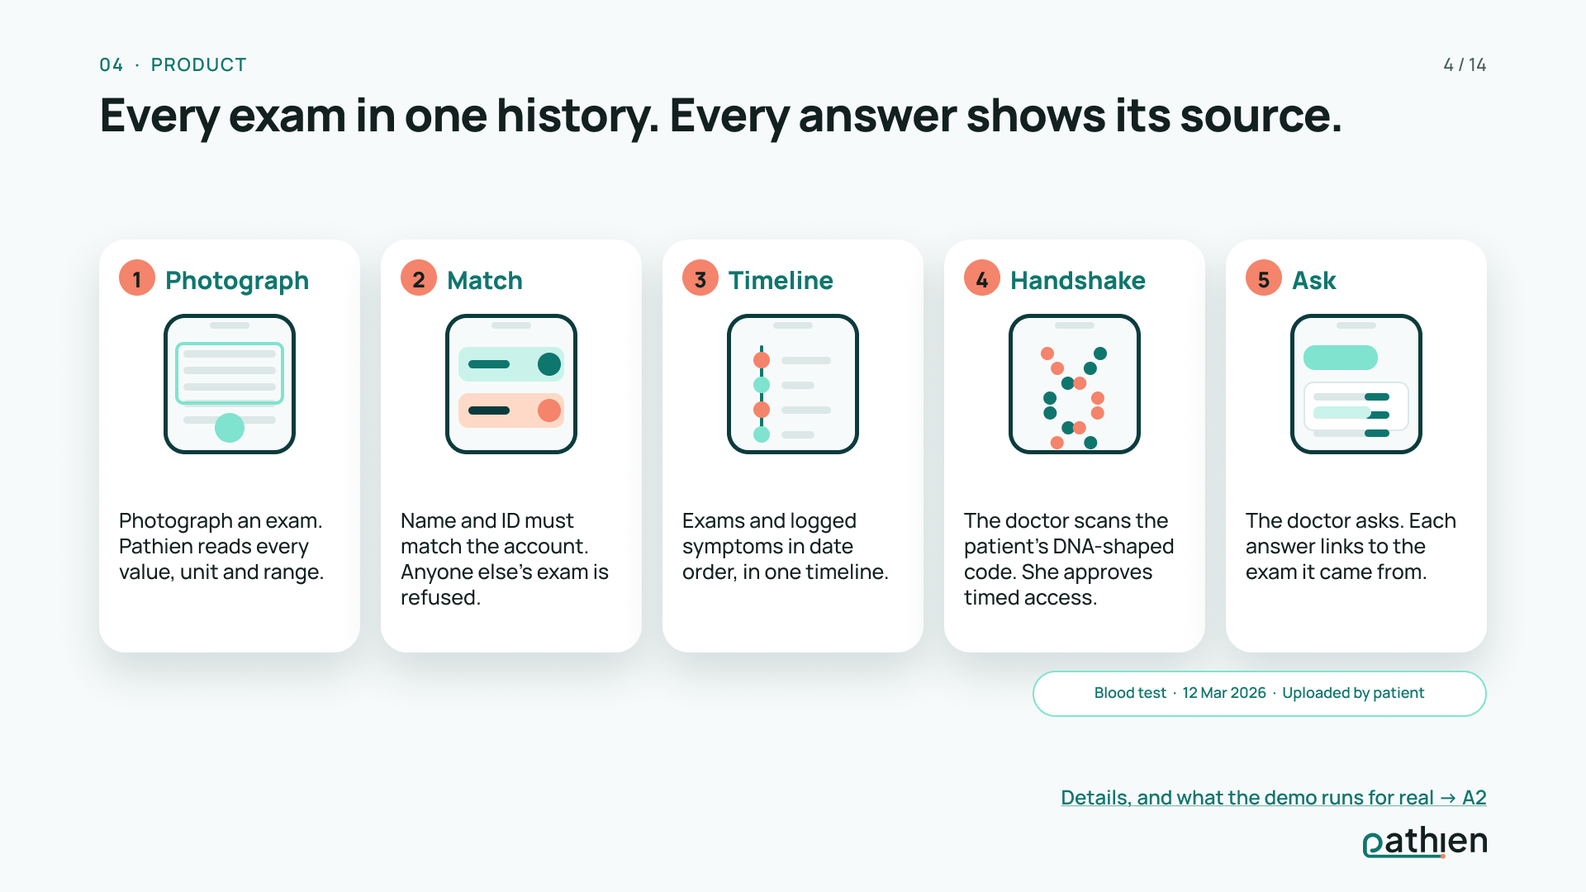
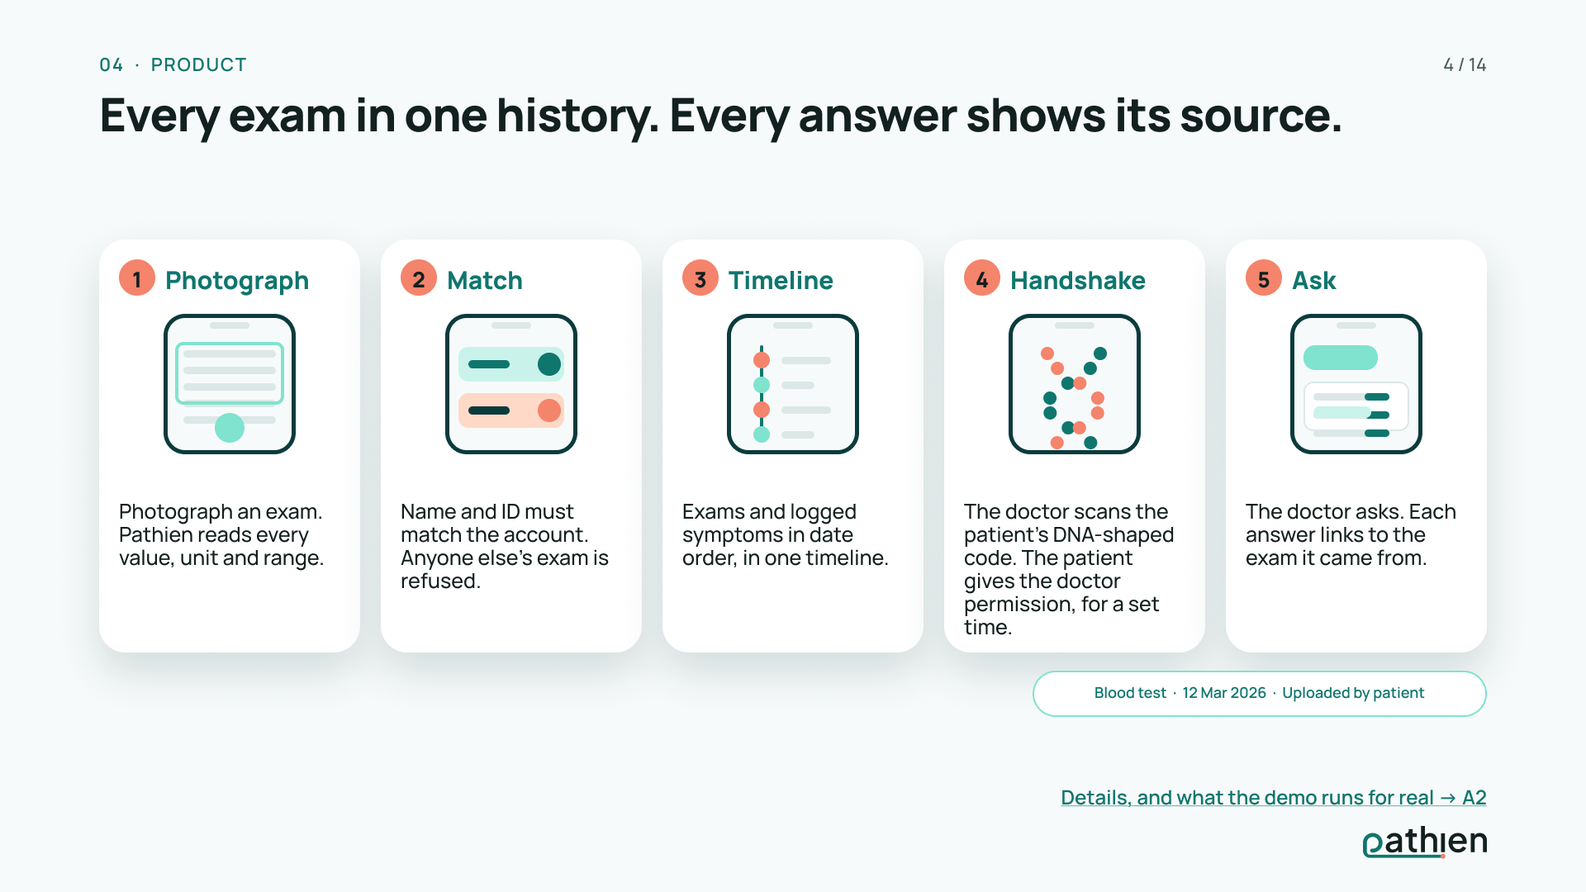
fix(deck): slide 4 handshake says the patient gives the doctor permission (MIN-4503) [Lane A] (#163)
* fix(deck): slide 4 handshake says the patient gives the doctor permission (v4.10)

Founder, 15 Nov 2026: "just add that patient give permission to doctor".
Step 4 was "She approves timed access.", readable as the doctor approving.

MIN-4503

* docs(deck): re-export slide 4 with the patient permission line (MIN-4503)

Refs MIN-4503

---------

diff --git a/landing/src/deck/slides.ts b/landing/src/deck/slides.ts
@@ -68,7 +68,7 @@ const mainSlides: Slide[] = [
       { n: 1, title: 'Photograph', icon: 'photo', text: 'Photograph an exam. Pathien reads every value, unit and range.' },
       { n: 2, title: 'Match', icon: 'match', text: "Name and ID must match the account. Anyone else's exam is refused." },
       { n: 3, title: 'Timeline', icon: 'timeline', text: 'Exams and logged symptoms in date order, in one timeline.' },
-      { n: 4, title: 'Handshake', icon: 'helix', text: "The doctor scans the patient's DNA-shaped code. She approves timed access." },
+      { n: 4, title: 'Handshake', icon: 'helix', text: "The doctor scans the patient's DNA-shaped code. The patient gives the doctor permission, for a set time." },
       { n: 5, title: 'Ask', icon: 'ask', text: 'The doctor asks. Each answer links to the exam it came from.' },
     ],
     links: [{ to: 'A2', label: 'Details, and what the demo runs for real → A2' }],

diff --git a/docs/deck/deck-content.md b/docs/deck/deck-content.md
@@ -11,7 +11,7 @@ Version entries before v4.2 use the old numbers.
 | | |
 |---|---|
 | **Owner** | Anna Lytica (Marketing), MIN-4429. Deck story: CEO (MIN-4425). Design: Pix (MIN-4428), next. |
-| **Version** | **v4.9, 15 Nov 2026** (MIN-4503: Q37 decided. Founder, 15 Nov 2026, verbatim, asked whether the clinical-trials slides stay in the main deck: *"Keep it"*. Slides 6b and 6c stay in the main deck. No slide text changes.) v4.8, 15 Nov 2026 (MIN-4503: the CFO's decisions on the founder's delegation, applied word for word from `docs/business/cfo-fixes-v4.8.md`. Founder, 15 Nov 2026, verbatim: *"CFO you make the call"*. Slide 6c headline: the sponsor pays per trial and per randomised patient (the old headline named only a per-patient fee; there is also a €5,000 set-up fee); A3: €1,000 a randomised patient decided, billed to the sponsor or CRO only; A9: no founder salary from this round, government revenue counted only once a contract is signed; Q38 and Q39 answered. No number on a main slide changes.) v4.7, 15 Nov 2026 (MIN-4503: CFO fixes, applied word for word from `docs/business/cfo-fixes-v4.7.md`. Founder, 15 Nov 2026, verbatim, asking for the check: *"lets go a step back / I want the /c-level-skills:cfo-advisor to check the whole presentation and check the financial numbers is there are ok"*; and on the tranche choice: *"CFO will answer"*. Tranches €400k then €600k, both committed at signing, the second released when a hospital commits in writing to 1,000+ paid cases a year at €40+; break-even at month 31, when gross profit covers running costs (was "month 29", revenue alone); one cost method for every hire (spend bar €297k / €361k / €245k / €97k); slide 10's "6 to 14%" replaced by "about 12 hospitals cover our running costs"; slide 7 headline "Diagnostic error costs 17.5%", upside €75M → €30M; A7 in euros; trials five a year; slide 3 says "Greek press reports"; A9 tables from plan v4.) v4.6, 15 Nov 2026 (MIN-4503: slide 1 cover headline replaced. Founder, 15 Nov 2026, verbatim, after none of the five proposed cover headlines was picked: *"just write Your medical history, in one place."* The headline is now "Your medical history, / in one place.", broken after the comma, the same words as the landing page hero; the one-liner and the speaker notes are unchanged; web deck `slides.ts` matches. Was "Maria asks Google what her pain means. Her doctors each see one page of her history.") v4.5, 15 Nov 2026 (MIN-4503: slide 6c rebuilt so the three cards compare the same thing. Founder, 15 Nov 2026, verbatim, asked of the v4.4 cards "$360M\*" and "$200,000\*": *"does 360m is the whole and the 200000 is per trial?"*, then: *"You need to be clear with the numbers and compare the same thing"*. The v4.4 cards mixed a market total over the life of 1,497 trials (recruitment budget, dollars), a per-trial running-cost saving (dollars) and our per-trial fee (euros). All three cards are now the cost of recruitment time, for one trial in one country, in euros at $1.10 to €1: card 1 **€36,000\*** a day of delay ($40,000, S23, rounded down); card 2 **€180,000\*** saved, 5 × €36,000; card 3 **€24,000\*** our fee, the sponsor keeps €156,000. The market totals ($357M ≈ €325M recruitment budget, 1,497 trials, 776,650 participants, ≈ €270M of running cost if each saved 5 days) moved to A3 as context, with a new answer on why the cards use the cost of a day and not the recruitment budget per trial. A3's worked example, speaker notes, web deck (`slides.ts`, `notes.ts`, `appendix.ts`) and `docs/business/clinical-trials-fit.md` §8 match. Was $360M / $200,000 / €24,000, sponsor keeps €158,000.) v4.4, 15 Nov 2026 (MIN-4503: slide 5b step 1 reversed. Founder, 15 Nov 2026, verbatim: *"probably in a serious condition"*. Step 1 now reads "possibly in a serious condition"; speaker notes and A2 "For questions" items 1 and 4 rewritten to match: support verifies with the hospital, not the patient. Replaces the v3.5 wording "with no serious condition".) **v4.3, 15 Nov 2026** (MIN-4503: the ask is now **€1M over 24 months**, in two gated tranches of **€300k** and **€700k** (was €600k over 18 months), merged from the CEO's plan v3, `docs/business/team-and-funding-plan.md` §7; slide 13 (team and ask) and slide 14 (why) rewritten with main numbers only: the headline, the ask, the two gates, the spend bar (Sell €285k · 29%, Build €361k · 36%, Prove €242k · 24%, Buffer €112k · 11%), one team line and an "\*" footnote with "Details → A9"; A9 filled with the full tables (team, spend by function, burn by quarter, runway, tranches and inner gates, break-even on both lines and the cash low point, the €885k alternative, assumptions); the 3-minute script and `docs/submission/pitch-script.md` now say €1M over 24 months; Q27 and Q39 updated; founder, verbatim: "Fund 1m -> do the maths", then "Keep at all slides the main numbers and add all at appendix with link"). v4.2, 15 Nov 2026 (MIN-4503: main numbers only on every slide, every detail moved to nine appendix slides A1 to A9 with a "Details → A_" link from each main slide; slide 3 cut to a headline and three points; slide 4 cut to five one-sentence steps; old slide 5 (live demo) removed, its content moved to A2 and slide 4's "For questions", the demo still runs live with no slide; privacy (old 6, now 5) cut to three points; old 7c (now 6c) cut to three cards, each a title, one big number with a "\*" and one line, one small footnote; the asterisk-and-small-footnote style made deck-wide for estimates in rule 8, replacing the same-size label rule; business model (old 10, now 9) rebuilt on three buyer groups: hospitals, governments and national health systems, private clinics; old Appendix A is now A7; slides renumbered, map in the comment at the top; slides 13 and 14 (old 14 and 15) unchanged apart from links, pending the CEO's €1M text; nothing deleted, only moved; founder, verbatim, in order: "slide 3 -> reduce content and make it clear and understandable / Slide 4 -> reduce the text also, clear sentences / Slide 5 -> remove / Slide 6-> remove unnecessary info", then "7c -> estimate should be with a * and small letters / Seriously just numbers with an explanation, not too much content", then "bussiness model / We need hospitals, governments, private clinics", then "Keep at all slides the main numbers and add all at appendix with link"). Slide numbers in the entries below are the old numbers. v4.1, 15 Nov 2026 (MIN-4503: the "Mock-up" tag removed from slides 4, 6 and 7 and every other screen; the "Working demo · synthetic data" tag stays on slide 5; slide 2's four chips (Orthopaedist, Rheumatologist, Private lab, Search history) and its closing line ("The history exists, split across providers, apps, private labs, paper and other countries. It never reaches one desk.") removed; rule 8's waiver extended to the Mock-up tag; no other text changed; founder, verbatim, with a screenshot of the chips row: "remove the \"mockup\" tags / remove the whole line"). v4.0, 15 Nov 2026 (MIN-4503: slide 7b slimmed to two lines per column and the revenue strip removed; new slide 7c, Clinical trials, the economics, three cards: today's recruitment cost, what Pathien could save a sponsor, how we charge; success fee lowered from €1,500 to €1,000 per randomised patient (assumption) because ASPE puts the recruitment line at about $500 to $700 per participant and a vendor average at $1,379; sources S29 to S31; slide 11 totals unchanged; founder, verbatim: "Pricing -> show different in 3 cards / * The current situation, the cost of one hire, number of trials and the participants, total cost / * How cheaper could be from our patient match and selection and how many money we can save them / * How we can charge and the revenue", then "Reduct the content of patient selection and patient experience"). v3.9, 15 Nov 2026 (MIN-4503: slide 7b rewritten: no "not built" eyebrow; two columns for the challenge's Topic 2, patient selection and recruitment, and Topic 3, patient experience; a revenue strip with a sourced cost of delay and a priced unit, €5,000 per trial set-up and €1,500 per randomised patient, both assumptions; sources S23 to S28; slide 11 totals unchanged, trial revenue named under "Not counted"; founder, verbatim: "Change the content and focus / NOT not build yet next steps / Say how our solution can cover / patient selection and recruitment; / patient experience; / Connect with revenue from trial clinics"). v3.8, 15 Nov 2026 (MIN-4503: new slide 7b, Clinical trials, after slide 7; labelled "Not built yet · our next step"; founder, verbatim: "Deck 7 -> Create a deck 7b to connect to the Clinical_Trials_Challenge"; the founder's summary is `docs/business/clinical-trials-fit.md`; no other slide renumbered). v3.7, 15 Nov 2026 (MIN-4503: slide 12, Tel Aviv and Sheba ARC removed; founder, verbatim: "remove tel aviv for now at 12 slide"). v3.6, 15 Nov 2026 (MIN-4503: slide 6b step 4 and its speaker note: the support person calls the hospital to verify the situation, not the patient; founder, verbatim: "not to verify with patient but to verify the situation with the hospital"). v3.5, 15 Nov 2026 (MIN-4503: slide 6b, the concept label and all pricing removed, and a four-step "How it's used" flow added; founder, verbatim: "6b -> concept ,not build -> remove / Pricing -> No / But add how to use / Patient abroad or at a hospital with no serious condition -> Doctor scans the code on the machine -> opens the doctor page -> one of our support team calls to verify the condition and give the doctor access"; rule 8 (concept labels) is waived for 6b by the founder; S21 and S22 unused). v3.4, 14 Nov 2026 (MIN-4462: every insurer mention removed from slides 6, 6b, 10, 11, 13 and both scripts; founder: "remove the never insurers -> not sure about this", then "Drop every insurer mention"; the internal data rule is unchanged). v3.3, 14 Nov 2026 (MIN-4503: slide 6b, the "Concept render" tag removed and the encryption point added; founder: "remove the concept render -> and mention that this device has our own encrypted software for the data so they are not in the cloud"; the eyebrow "Concept · not built" stays). v3.2, 14 Nov 2026 (MIN-4503: new slide 6b, Pathien Vault, a concept device for patients who want maximum privacy; founder: "what if someone that want's his privacy can buy our device that can hold his data. Anna and pix work on this and add one slide with a very super elegant image with our device that looks very premioum"; no other slide renumbered). v3.1, 14 Nov 2026 (MIN-4503: team and ask from the CEO plan v2, `docs/business/team-and-funding-plan.md` §7; slide 14 replaced, slide 15 new; founder: "put it in the deck when ready"). v3, 14 Nov 2026 (MIN-4503: name Pathien; new slide 11, revenue years 1 to 3, on the founder's ask "the numbers of how many money we can earn" and "Yes, update to v3"; Appendix A's SOM retired for the bottom-up line; demo slides say what is real and what is synthetic). v2, 14 Nov 2026 (MIN-4503: reframed on the founder's two points, "Dr Google" and better doctor decisions; numbers from `pitch-numbers-2026-11-14.md` and `treg-findings-2026-11-14.md`). v1, 13 Nov 2026. |
+| **Version** | **v4.10, 15 Nov 2026** (MIN-4503: slide 4 step 4, Handshake, now says who gives permission. Founder, 15 Nov 2026, verbatim, with a screenshot of the step card: *"just add that patient give permission to doctor"*. Step 4 now reads "The doctor scans the patient's DNA-shaped code. The patient gives the doctor permission, for a set time." Was "She approves timed access.", which could be read as the doctor approving. Web deck `slides.ts` matches. No other slide text changes.) v4.9, 15 Nov 2026 (MIN-4503: Q37 decided. Founder, 15 Nov 2026, verbatim, asked whether the clinical-trials slides stay in the main deck: *"Keep it"*. Slides 6b and 6c stay in the main deck. No slide text changes.) v4.8, 15 Nov 2026 (MIN-4503: the CFO's decisions on the founder's delegation, applied word for word from `docs/business/cfo-fixes-v4.8.md`. Founder, 15 Nov 2026, verbatim: *"CFO you make the call"*. Slide 6c headline: the sponsor pays per trial and per randomised patient (the old headline named only a per-patient fee; there is also a €5,000 set-up fee); A3: €1,000 a randomised patient decided, billed to the sponsor or CRO only; A9: no founder salary from this round, government revenue counted only once a contract is signed; Q38 and Q39 answered. No number on a main slide changes.) v4.7, 15 Nov 2026 (MIN-4503: CFO fixes, applied word for word from `docs/business/cfo-fixes-v4.7.md`. Founder, 15 Nov 2026, verbatim, asking for the check: *"lets go a step back / I want the /c-level-skills:cfo-advisor to check the whole presentation and check the financial numbers is there are ok"*; and on the tranche choice: *"CFO will answer"*. Tranches €400k then €600k, both committed at signing, the second released when a hospital commits in writing to 1,000+ paid cases a year at €40+; break-even at month 31, when gross profit covers running costs (was "month 29", revenue alone); one cost method for every hire (spend bar €297k / €361k / €245k / €97k); slide 10's "6 to 14%" replaced by "about 12 hospitals cover our running costs"; slide 7 headline "Diagnostic error costs 17.5%", upside €75M → €30M; A7 in euros; trials five a year; slide 3 says "Greek press reports"; A9 tables from plan v4.) v4.6, 15 Nov 2026 (MIN-4503: slide 1 cover headline replaced. Founder, 15 Nov 2026, verbatim, after none of the five proposed cover headlines was picked: *"just write Your medical history, in one place."* The headline is now "Your medical history, / in one place.", broken after the comma, the same words as the landing page hero; the one-liner and the speaker notes are unchanged; web deck `slides.ts` matches. Was "Maria asks Google what her pain means. Her doctors each see one page of her history.") v4.5, 15 Nov 2026 (MIN-4503: slide 6c rebuilt so the three cards compare the same thing. Founder, 15 Nov 2026, verbatim, asked of the v4.4 cards "$360M\*" and "$200,000\*": *"does 360m is the whole and the 200000 is per trial?"*, then: *"You need to be clear with the numbers and compare the same thing"*. The v4.4 cards mixed a market total over the life of 1,497 trials (recruitment budget, dollars), a per-trial running-cost saving (dollars) and our per-trial fee (euros). All three cards are now the cost of recruitment time, for one trial in one country, in euros at $1.10 to €1: card 1 **€36,000\*** a day of delay ($40,000, S23, rounded down); card 2 **€180,000\*** saved, 5 × €36,000; card 3 **€24,000\*** our fee, the sponsor keeps €156,000. The market totals ($357M ≈ €325M recruitment budget, 1,497 trials, 776,650 participants, ≈ €270M of running cost if each saved 5 days) moved to A3 as context, with a new answer on why the cards use the cost of a day and not the recruitment budget per trial. A3's worked example, speaker notes, web deck (`slides.ts`, `notes.ts`, `appendix.ts`) and `docs/business/clinical-trials-fit.md` §8 match. Was $360M / $200,000 / €24,000, sponsor keeps €158,000.) v4.4, 15 Nov 2026 (MIN-4503: slide 5b step 1 reversed. Founder, 15 Nov 2026, verbatim: *"probably in a serious condition"*. Step 1 now reads "possibly in a serious condition"; speaker notes and A2 "For questions" items 1 and 4 rewritten to match: support verifies with the hospital, not the patient. Replaces the v3.5 wording "with no serious condition".) **v4.3, 15 Nov 2026** (MIN-4503: the ask is now **€1M over 24 months**, in two gated tranches of **€300k** and **€700k** (was €600k over 18 months), merged from the CEO's plan v3, `docs/business/team-and-funding-plan.md` §7; slide 13 (team and ask) and slide 14 (why) rewritten with main numbers only: the headline, the ask, the two gates, the spend bar (Sell €285k · 29%, Build €361k · 36%, Prove €242k · 24%, Buffer €112k · 11%), one team line and an "\*" footnote with "Details → A9"; A9 filled with the full tables (team, spend by function, burn by quarter, runway, tranches and inner gates, break-even on both lines and the cash low point, the €885k alternative, assumptions); the 3-minute script and `docs/submission/pitch-script.md` now say €1M over 24 months; Q27 and Q39 updated; founder, verbatim: "Fund 1m -> do the maths", then "Keep at all slides the main numbers and add all at appendix with link"). v4.2, 15 Nov 2026 (MIN-4503: main numbers only on every slide, every detail moved to nine appendix slides A1 to A9 with a "Details → A_" link from each main slide; slide 3 cut to a headline and three points; slide 4 cut to five one-sentence steps; old slide 5 (live demo) removed, its content moved to A2 and slide 4's "For questions", the demo still runs live with no slide; privacy (old 6, now 5) cut to three points; old 7c (now 6c) cut to three cards, each a title, one big number with a "\*" and one line, one small footnote; the asterisk-and-small-footnote style made deck-wide for estimates in rule 8, replacing the same-size label rule; business model (old 10, now 9) rebuilt on three buyer groups: hospitals, governments and national health systems, private clinics; old Appendix A is now A7; slides renumbered, map in the comment at the top; slides 13 and 14 (old 14 and 15) unchanged apart from links, pending the CEO's €1M text; nothing deleted, only moved; founder, verbatim, in order: "slide 3 -> reduce content and make it clear and understandable / Slide 4 -> reduce the text also, clear sentences / Slide 5 -> remove / Slide 6-> remove unnecessary info", then "7c -> estimate should be with a * and small letters / Seriously just numbers with an explanation, not too much content", then "bussiness model / We need hospitals, governments, private clinics", then "Keep at all slides the main numbers and add all at appendix with link"). Slide numbers in the entries below are the old numbers. v4.1, 15 Nov 2026 (MIN-4503: the "Mock-up" tag removed from slides 4, 6 and 7 and every other screen; the "Working demo · synthetic data" tag stays on slide 5; slide 2's four chips (Orthopaedist, Rheumatologist, Private lab, Search history) and its closing line ("The history exists, split across providers, apps, private labs, paper and other countries. It never reaches one desk.") removed; rule 8's waiver extended to the Mock-up tag; no other text changed; founder, verbatim, with a screenshot of the chips row: "remove the \"mockup\" tags / remove the whole line"). v4.0, 15 Nov 2026 (MIN-4503: slide 7b slimmed to two lines per column and the revenue strip removed; new slide 7c, Clinical trials, the economics, three cards: today's recruitment cost, what Pathien could save a sponsor, how we charge; success fee lowered from €1,500 to €1,000 per randomised patient (assumption) because ASPE puts the recruitment line at about $500 to $700 per participant and a vendor average at $1,379; sources S29 to S31; slide 11 totals unchanged; founder, verbatim: "Pricing -> show different in 3 cards / * The current situation, the cost of one hire, number of trials and the participants, total cost / * How cheaper could be from our patient match and selection and how many money we can save them / * How we can charge and the revenue", then "Reduct the content of patient selection and patient experience"). v3.9, 15 Nov 2026 (MIN-4503: slide 7b rewritten: no "not built" eyebrow; two columns for the challenge's Topic 2, patient selection and recruitment, and Topic 3, patient experience; a revenue strip with a sourced cost of delay and a priced unit, €5,000 per trial set-up and €1,500 per randomised patient, both assumptions; sources S23 to S28; slide 11 totals unchanged, trial revenue named under "Not counted"; founder, verbatim: "Change the content and focus / NOT not build yet next steps / Say how our solution can cover / patient selection and recruitment; / patient experience; / Connect with revenue from trial clinics"). v3.8, 15 Nov 2026 (MIN-4503: new slide 7b, Clinical trials, after slide 7; labelled "Not built yet · our next step"; founder, verbatim: "Deck 7 -> Create a deck 7b to connect to the Clinical_Trials_Challenge"; the founder's summary is `docs/business/clinical-trials-fit.md`; no other slide renumbered). v3.7, 15 Nov 2026 (MIN-4503: slide 12, Tel Aviv and Sheba ARC removed; founder, verbatim: "remove tel aviv for now at 12 slide"). v3.6, 15 Nov 2026 (MIN-4503: slide 6b step 4 and its speaker note: the support person calls the hospital to verify the situation, not the patient; founder, verbatim: "not to verify with patient but to verify the situation with the hospital"). v3.5, 15 Nov 2026 (MIN-4503: slide 6b, the concept label and all pricing removed, and a four-step "How it's used" flow added; founder, verbatim: "6b -> concept ,not build -> remove / Pricing -> No / But add how to use / Patient abroad or at a hospital with no serious condition -> Doctor scans the code on the machine -> opens the doctor page -> one of our support team calls to verify the condition and give the doctor access"; rule 8 (concept labels) is waived for 6b by the founder; S21 and S22 unused). v3.4, 14 Nov 2026 (MIN-4462: every insurer mention removed from slides 6, 6b, 10, 11, 13 and both scripts; founder: "remove the never insurers -> not sure about this", then "Drop every insurer mention"; the internal data rule is unchanged). v3.3, 14 Nov 2026 (MIN-4503: slide 6b, the "Concept render" tag removed and the encryption point added; founder: "remove the concept render -> and mention that this device has our own encrypted software for the data so they are not in the cloud"; the eyebrow "Concept · not built" stays). v3.2, 14 Nov 2026 (MIN-4503: new slide 6b, Pathien Vault, a concept device for patients who want maximum privacy; founder: "what if someone that want's his privacy can buy our device that can hold his data. Anna and pix work on this and add one slide with a very super elegant image with our device that looks very premioum"; no other slide renumbered). v3.1, 14 Nov 2026 (MIN-4503: team and ask from the CEO plan v2, `docs/business/team-and-funding-plan.md` §7; slide 14 replaced, slide 15 new; founder: "put it in the deck when ready"). v3, 14 Nov 2026 (MIN-4503: name Pathien; new slide 11, revenue years 1 to 3, on the founder's ask "the numbers of how many money we can earn" and "Yes, update to v3"; Appendix A's SOM retired for the bottom-up line; demo slides say what is real and what is synthetic). v2, 14 Nov 2026 (MIN-4503: reframed on the founder's two points, "Dr Google" and better doctor decisions; numbers from `pitch-numbers-2026-11-14.md` and `treg-findings-2026-11-14.md`). v1, 13 Nov 2026. |
 | **Event** | Gen AI Summit Hackathon, Athens LifeTech Park, Biotech & AI track |
 | **Market** | Global. Founder: "Dont focus on the greek market. we need to focus on global market" |
 | **Sources** | Only `docs/research/` (Sales). Each number carries a source ID from the table at the end (S1 to S31; S29 to S31, added in v4.0 by Marketing for slide 6c, old 7c; S23 to S28, added in v3.9 by Marketing for slide 6b, old 7b, used on 6c since v4.0; S21 and S22, added in v3.2 by Marketing as price anchors for slide 5b, old 6b, are unused since v3.5, when the founder removed the price) and its status from the research: **verified**, **secondary**, or **assumption**. Nothing from the research's "Do not put on a slide" list is used. Since v4.2 the sources sit on the appendix slides; each main slide links to its appendix. |
@@ -101,7 +101,7 @@ Link: Details → A1
 1. **Photograph.** Photograph an exam. Pathien reads every value, unit and range.
 2. **Match.** Name and ID must match the account. Anyone else's exam is refused.
 3. **Timeline.** Exams and logged symptoms in date order, in one timeline.
-4. **Handshake.** The doctor scans the patient's DNA-shaped code. She approves timed access.
+4. **Handshake.** The doctor scans the patient's DNA-shaped code. The patient gives the doctor permission, for a set time.
 5. **Ask.** The doctor asks. Each answer links to the exam it came from.
 
 Link: Details, and what the demo runs for real → A2
